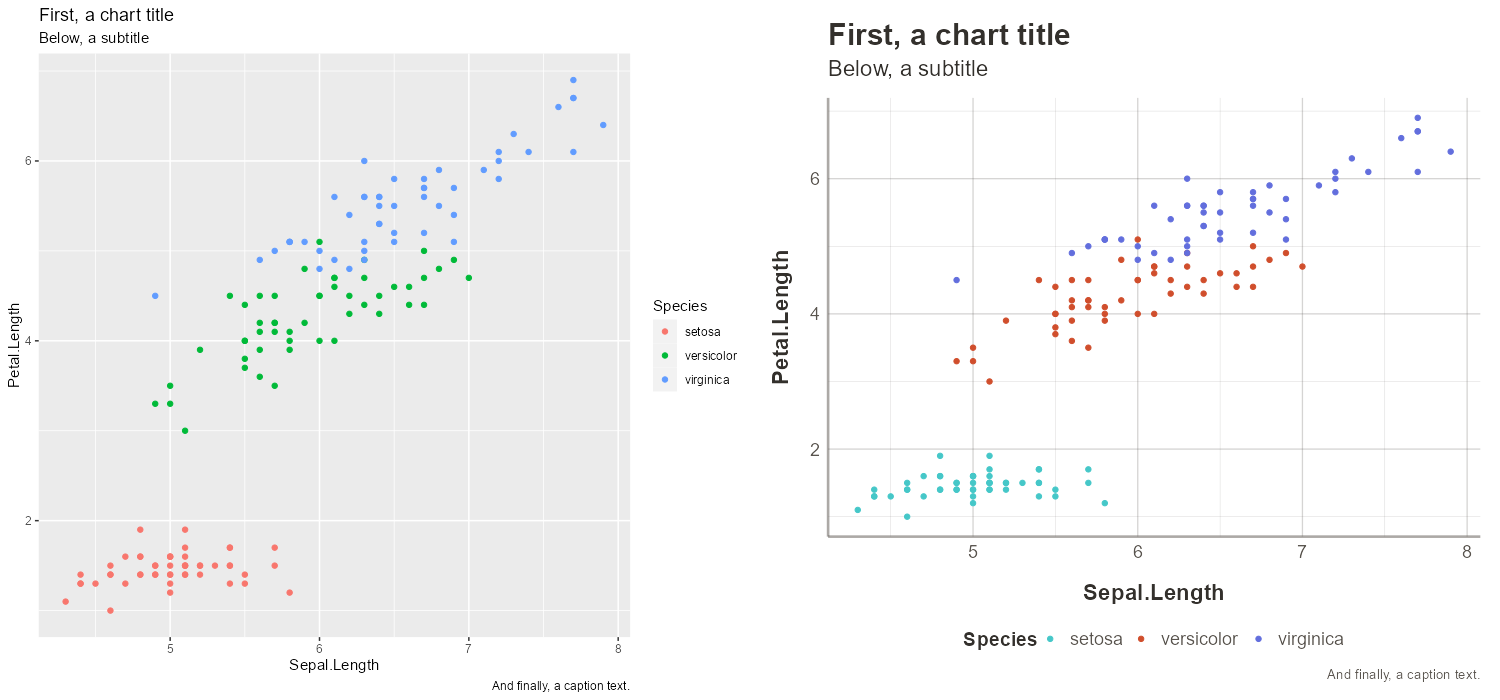
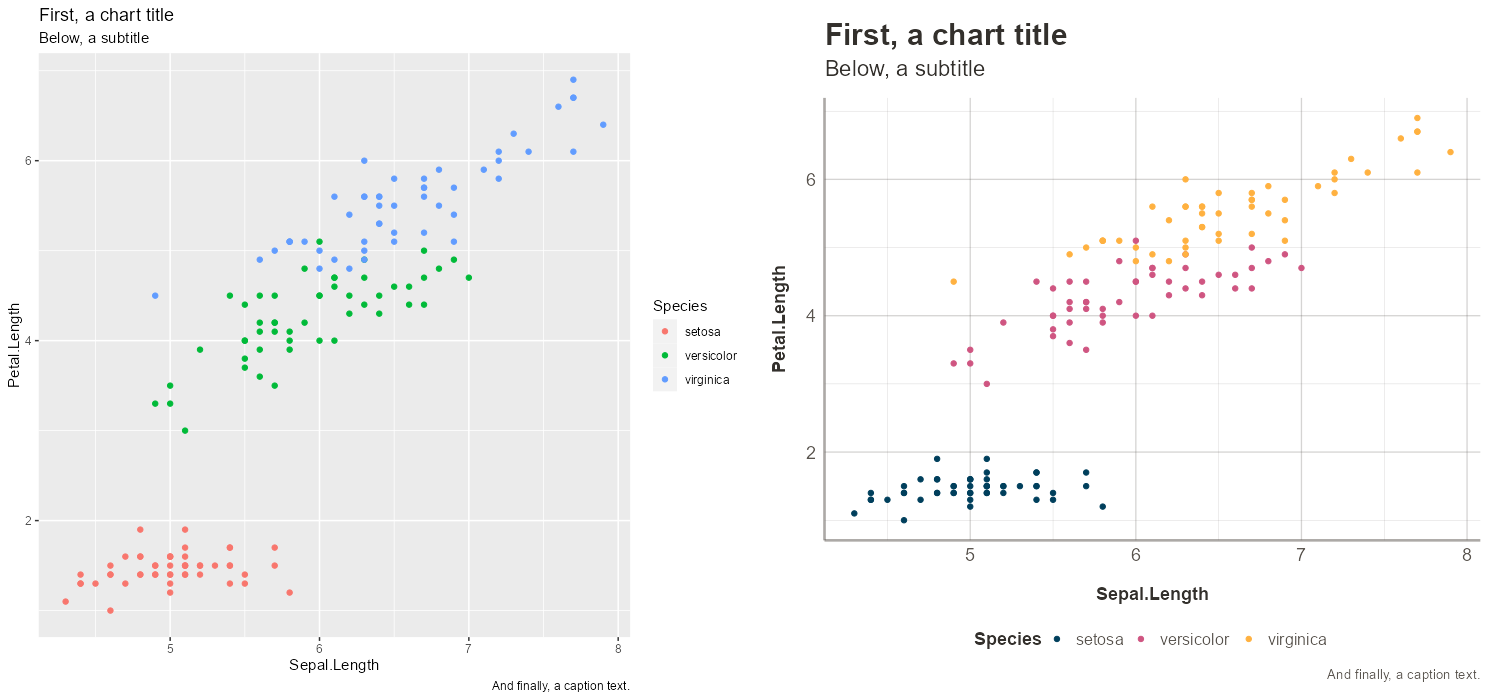
README corrections

diff --git a/README.md b/README.md
@@ -55,6 +55,6 @@ showtext::showtext_auto()
 Alternatively, you can use the default fonts by specifying the `theme = "default"` option in the `theme_wax()` function.
 
 ```r
-p1 + waxtheme::theme_wax(theme = "default") +
-     waxtheme::scale_color_wax_d()
+p1 + waxtheme::theme_wax(theme = "default")
 ```
+
